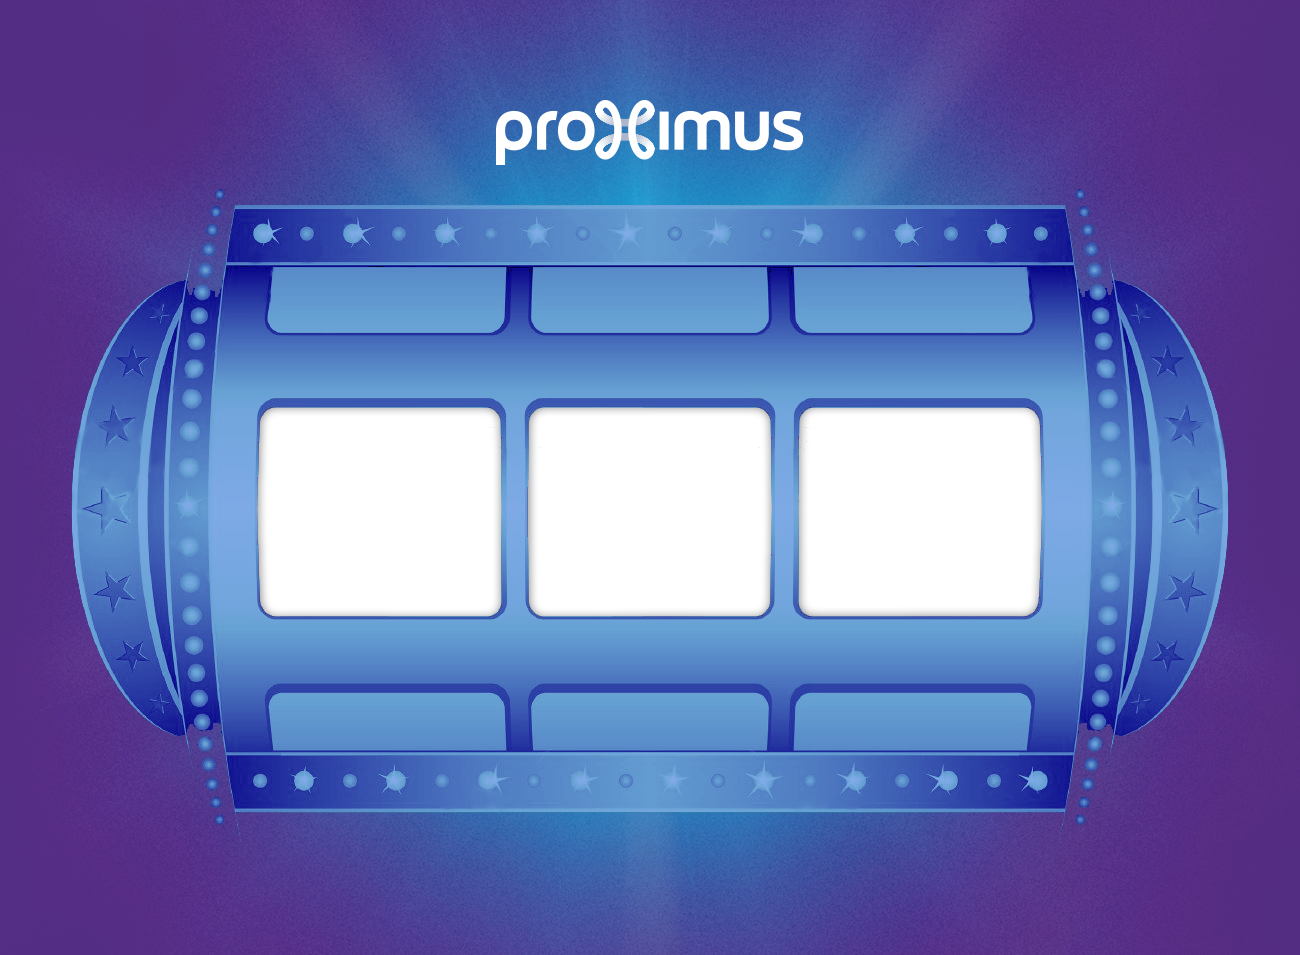
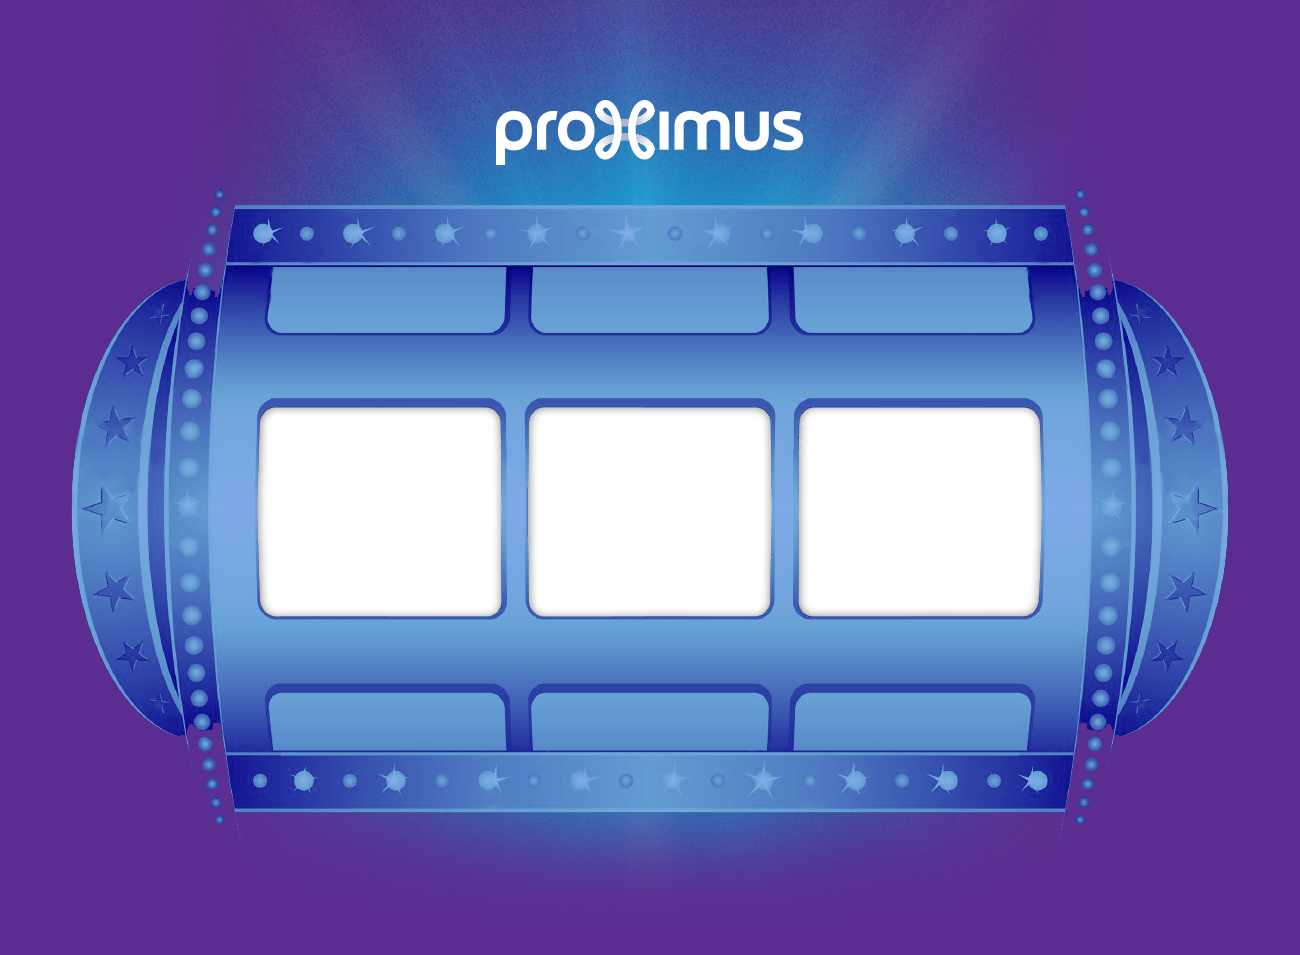
update layout

Changed region(s): [[0.3077, 0.8503, 0.6769, 1.0], [0.8308, 0.2733, 0.8615, 0.3037], [0.1231, 0.2733, 0.1538, 0.3037]]

diff --git a/www/slotmachine/css/register.css b/www/slotmachine/css/register.css
@@ -10,29 +10,30 @@
 #register {
     margin-left: 38%;
     padding: 0.5% 7% 0.5% 7%;
-    color: #E68524;
+    color: #5C2D91;   
+
     background-color: #F5F5F5;
 }
 
 #registerFooter {
-    background-color: #E68524;
+    background-color: #5C2D91;
     padding-bottom: 20px;
     padding-top: 20px;
 }
 
 /*Overriding the default ng-material checkbox colors*/
 md-checkbox.md-checked .md-ink-ripple {
-    color: rgba(230, 133, 36, 0.87) !important;
-    background-color: rgba(230, 133, 36, 0.87) !important;
+    color: #5C2D91 !important;
+    background-color: #5C2D91 !important;
 }
 
 md-checkbox {
-    color: rgba(230, 133, 36, 0.87) !important;
+    color:  #5C2D91 !important;
 }
 md-checkbox.md-checked .md-icon {
-    background-color: rgba(230, 133, 36, 0.87) !important;
+    background-color: #5C2D91 !important;
 }
 
 md-input-container:not(.md-input-invalid).md-input-focused .md-input {
-    border-color: rgba(230, 133, 36, 0.87) !important;
+    border-color:  #5C2D91 !important;
 }

diff --git a/www/slotmachine/css/endGame.css b/www/slotmachine/css/endGame.css
@@ -13,7 +13,7 @@
 }
 
 .endGamecon > p {
-    background: #E68524;
+    background: #5C2D91;
     color: #F5F5F5;
     padding: 10px;
     text-transform: uppercase;
@@ -53,12 +53,12 @@
 
 #newGame {
     padding: 2px 10px 2px 10px;
-    color: #E68524;
+    color: #5C2D91;
     background-color: #F5F5F5;
     margin-bottom: 25px;
 }
 
 #newGameFooter {
-    background-color: #E68524;
+    background-color: #5C2D91;
     padding-top: 1px;
 }

diff --git a/www/slotmachine/css/fireworks.css b/www/slotmachine/css/fireworks.css
@@ -1,4 +1,5 @@
 canvas {
-  margin-top:157px;
+  margin-top: 0;
   -webkit-transform: translateZ(0);
+  background-color: #5C2D91 !important;
 }

diff --git a/www/slotmachine/css/style.css b/www/slotmachine/css/style.css
@@ -2,4 +2,5 @@
 
 body {
     overflow: hidden;
+    background-color: #5C2D91 !important;
 }
